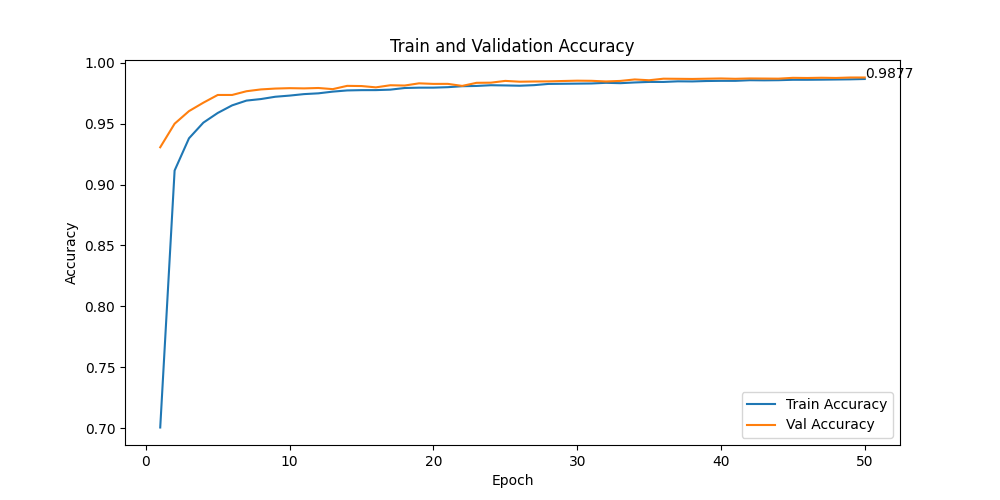
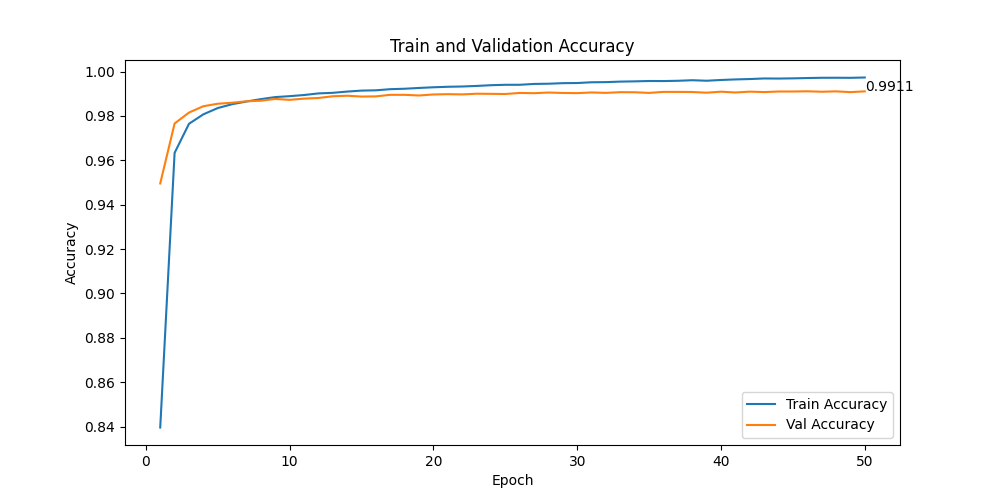
updated standard plots

diff --git a/unet_architecture_batchnorm_L2.py b/unet_architecture_batchnorm_L2.py
@@ -3,7 +3,7 @@ from torch import nn
 import torch.nn.functional as F
 
 class Unet_batch_dropout(nn.Module):
-    def __init__(self, n_class, dropout_rate=0.3):
+    def __init__(self, n_class):
         super(Unet_batch_dropout, self).__init__()
 
         # Encoder (downsampling)
@@ -12,28 +12,24 @@ class Unet_batch_dropout(nn.Module):
         self.e12 = nn.Conv2d(64, 64, kernel_size=3, padding=1)
         self.bn12 = nn.BatchNorm2d(64)
         self.pool1 = nn.MaxPool2d(kernel_size=2, stride=2)
-        self.dropout1 = nn.Dropout2d(p=dropout_rate)
 
         self.e21 = nn.Conv2d(64, 128, kernel_size=3, padding=1)
         self.bn21 = nn.BatchNorm2d(128)
         self.e22 = nn.Conv2d(128, 128, kernel_size=3, padding=1)
         self.bn22 = nn.BatchNorm2d(128)
         self.pool2 = nn.MaxPool2d(kernel_size=2, stride=2)
-        self.dropout2 = nn.Dropout2d(p=dropout_rate)
 
         self.e31 = nn.Conv2d(128, 256, kernel_size=3, padding=1)
         self.bn31 = nn.BatchNorm2d(256)
         self.e32 = nn.Conv2d(256, 256, kernel_size=3, padding=1)
         self.bn32 = nn.BatchNorm2d(256)
         self.pool3 = nn.MaxPool2d(kernel_size=2, stride=2)
-        self.dropout3 = nn.Dropout2d(p=dropout_rate)
 
         self.e41 = nn.Conv2d(256, 512, kernel_size=3, padding=1)
         self.bn41 = nn.BatchNorm2d(512)
         self.e42 = nn.Conv2d(512, 512, kernel_size=3, padding=1)
         self.bn42 = nn.BatchNorm2d(512)
         self.pool4 = nn.MaxPool2d(kernel_size=2, stride=2)
-        self.dropout4 = nn.Dropout2d(p=dropout_rate)
 
         self.e51 = nn.Conv2d(512, 1024, kernel_size=3, padding=1)
         self.bn51 = nn.BatchNorm2d(1024)
@@ -46,28 +42,24 @@ class Unet_batch_dropout(nn.Module):
         self.bn11d = nn.BatchNorm2d(512)
         self.d12 = nn.Conv2d(512, 512, kernel_size=3, padding=1)
         self.bn12d = nn.BatchNorm2d(512)
-        self.dropout1d = nn.Dropout2d(p=dropout_rate)
 
         self.upconv2 = nn.ConvTranspose2d(512, 256, kernel_size=2, stride=2)
         self.d21 = nn.Conv2d(512, 256, kernel_size=3, padding=1)
         self.bn21d = nn.BatchNorm2d(256)
         self.d22 = nn.Conv2d(256, 256, kernel_size=3, padding=1)
         self.bn22d = nn.BatchNorm2d(256)
-        self.dropout2d = nn.Dropout2d(p=dropout_rate)
 
         self.upconv3 = nn.ConvTranspose2d(256, 128, kernel_size=2, stride=2)
         self.d31 = nn.Conv2d(256, 128, kernel_size=3, padding=1)
         self.bn31d = nn.BatchNorm2d(128)
         self.d32 = nn.Conv2d(128, 128, kernel_size=3, padding=1)
         self.bn32d = nn.BatchNorm2d(128)
-        self.dropout3d = nn.Dropout2d(p=dropout_rate)
 
         self.upconv4 = nn.ConvTranspose2d(128, 64, kernel_size=2, stride=2)
         self.d41 = nn.Conv2d(128, 64, kernel_size=3, padding=1)
         self.bn41d = nn.BatchNorm2d(64)
         self.d42 = nn.Conv2d(64, 64, kernel_size=3, padding=1)
         self.bn42d = nn.BatchNorm2d(64)
-        self.dropout4d = nn.Dropout2d(p=dropout_rate)
 
         # Output layer
         self.outconv = nn.Conv2d(64, n_class, kernel_size=1)
@@ -76,22 +68,18 @@ class Unet_batch_dropout(nn.Module):
         # Encoder
         xe11 = F.relu(self.bn11(self.e11(x)))
         xe12 = F.relu(self.bn12(self.e12(xe11)))
-        xe12 = self.dropout1(xe12)
         xp1 = self.pool1(xe12)
 
         xe21 = F.relu(self.bn21(self.e21(xp1)))
         xe22 = F.relu(self.bn22(self.e22(xe21)))
-        xe22 = self.dropout2(xe22)
         xp2 = self.pool2(xe22)
 
         xe31 = F.relu(self.bn31(self.e31(xp2)))
         xe32 = F.relu(self.bn32(self.e32(xe31)))
-        xe32 = self.dropout3(xe32)
         xp3 = self.pool3(xe32)
 
         xe41 = F.relu(self.bn41(self.e41(xp3)))
         xe42 = F.relu(self.bn42(self.e42(xe41)))
-        xe42 = self.dropout4(xe42)
         xp4 = self.pool4(xe42)
 
         xe51 = F.relu(self.bn51(self.e51(xp4)))
@@ -102,25 +90,21 @@ class Unet_batch_dropout(nn.Module):
         xu11 = torch.cat([xu1, xe42], dim=1)
         xd11 = F.relu(self.bn11d(self.d11(xu11)))
         xd12 = F.relu(self.bn12d(self.d12(xd11)))
-        xd12 = self.dropout1d(xd12)
 
         xu2 = self.upconv2(xd12)
         xu22 = torch.cat([xu2, xe32[:, :, :xu2.size(2), :xu2.size(3)]], dim=1)
         xd21 = F.relu(self.bn21d(self.d21(xu22)))
         xd22 = F.relu(self.bn22d(self.d22(xd21)))
-        xd22 = self.dropout2d(xd22)
 
         xu3 = self.upconv3(xd22)
         xu33 = torch.cat([xu3, xe22[:, :, :xu3.size(2), :xu3.size(3)]], dim=1)
         xd31 = F.relu(self.bn31d(self.d31(xu33)))
         xd32 = F.relu(self.bn32d(self.d32(xd31)))
-        xd32 = self.dropout3d(xd32)
 
         xu4 = self.upconv4(xd32)
         xu44 = torch.cat([xu4, xe12[:, :, :xu4.size(2), :xu4.size(3)]], dim=1)
         xd41 = F.relu(self.bn41d(self.d41(xu44)))
         xd42 = F.relu(self.bn42d(self.d42(xd41)))
-        xd42 = self.dropout4d(xd42)
 
         # Output layer
         out = self.outconv(xd42)

diff --git a/unet_128_train.py b/unet_128_train.py
@@ -240,6 +240,8 @@ axes[4].imshow(confusion_matrix)
 for i in range(3):
     for j in range(3):
         axes[4].text(j, i, int(confusion_matrix[i, j]), ha="center", va="center", color="red")
+axes[4].set_xticks([0, 1, 2])
+axes[4].set_yticks([0, 1, 2])
 axes[4].set_title('Confusion Matrix')
 axes[4].set_xlabel('Predicted Label')
 axes[4].set_ylabel('Ground Truth Label')

diff --git a/unet_train.py b/unet_train.py
@@ -236,6 +236,8 @@ axes[4].imshow(confusion_matrix)
 for i in range(3):
     for j in range(3):
         axes[4].text(j, i, int(confusion_matrix[i, j]), ha="center", va="center", color="red")
+axes[4].set_xticks([0, 1, 2])
+axes[4].set_yticks([0, 1, 2])
 axes[4].set_title('Confusion Matrix')
 axes[4].set_xlabel('Predicted Label')
 axes[4].set_ylabel('Ground Truth Label')
